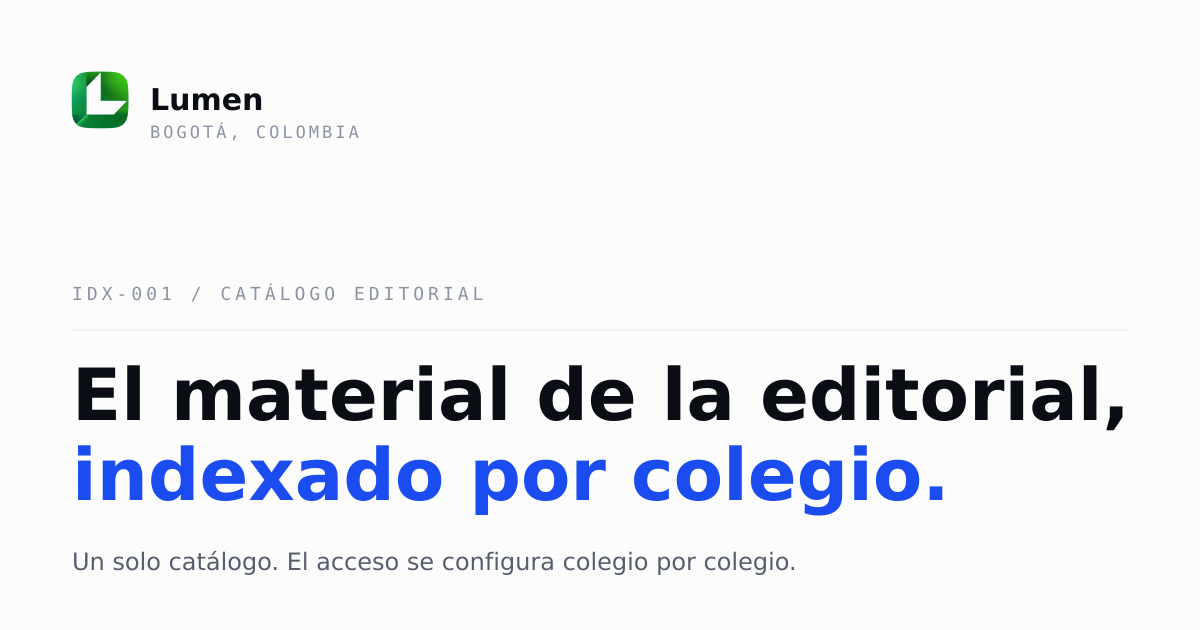
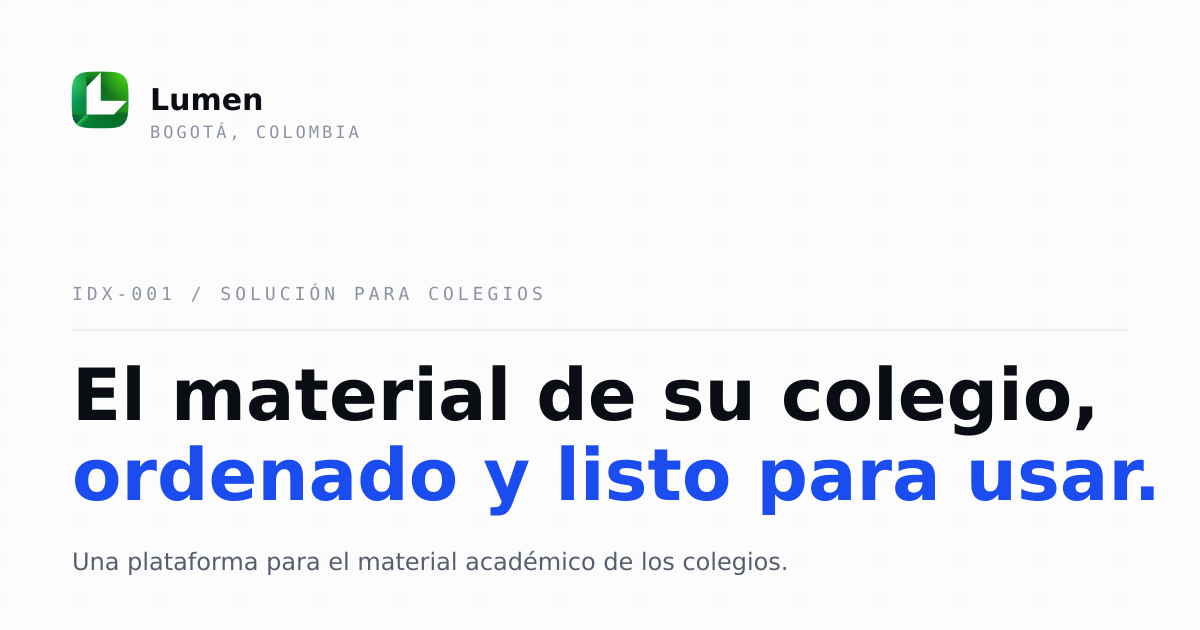
✨ feat(sitio): la landing presenta a Lumen como empresa
🏢 Lumen deja de presentarse como una editorial: el hero, el proceso y las
preguntas cuentan que es una empresa de software que resuelve la gestión
del material académico en los colegios.

🚪 El rol de plataforma sale de la lista de roles, y la cobertura por
tamaño de colegio también. El bloque quedó opcional: la página lo dibuja
solo si el copy lo trae, así que volver a publicarlo no necesita un
redespliegue.

🔁 El copy lo escribe ahora una migración y no la semilla, para que una
base nueva y una que ya existe muestren la misma landing.

diff --git a/frontend/src/routes/index.tsx b/frontend/src/routes/index.tsx
@@ -8,26 +8,28 @@ import spaceGroteskWoff2 from "@fontsource/space-grotesk/files/space-grotesk-lat
 
 const SITE_URL = (import.meta.env.VITE_SITE_URL ?? "https://lumen.co").replace(/\/$/, "");
 
+const TITLE = "Lumen — El material de su colegio, ordenado y listo para usar";
+const DESCRIPTION =
+  "Lumen resuelve la gestión del material académico en los colegios: el colegio entrega lo que ya tiene y Lumen lo deja disponible para el docente y para el estudiante.";
+
 export const Route = createFileRoute("/")({
   head: () => ({
     meta: [
-      { title: "Lumen — El material de la editorial, indexado por colegio" },
+      { title: TITLE },
       {
         name: "description",
-        content:
-          "Lumen mantiene un solo catálogo de material y le asigna a cada colegio las piezas que le corresponden.",
+        content: DESCRIPTION,
       },
       { name: "robots", content: "index, follow" },
       { property: "og:type", content: "website" },
       { property: "og:site_name", content: "Lumen" },
       {
         property: "og:title",
-        content: "Lumen — El material de la editorial, indexado por colegio",
+        content: TITLE,
       },
       {
         property: "og:description",
-        content:
-          "Lumen mantiene un solo catálogo de material y le asigna a cada colegio las piezas que le corresponden.",
+        content: DESCRIPTION,
       },
       { property: "og:url", content: SITE_URL },
       { property: "og:image", content: `${SITE_URL}/og-lumen.png` },
@@ -36,12 +38,11 @@ export const Route = createFileRoute("/")({
       { name: "twitter:card", content: "summary_large_image" },
       {
         name: "twitter:title",
-        content: "Lumen — El material de la editorial, indexado por colegio",
+        content: TITLE,
       },
       {
         name: "twitter:description",
-        content:
-          "Lumen mantiene un solo catálogo de material y le asigna a cada colegio las piezas que le corresponden.",
+        content: DESCRIPTION,
       },
       { name: "twitter:image", content: `${SITE_URL}/og-lumen.png` },
     ],

diff --git a/frontend/src/features/site/components/landing-page.tsx b/frontend/src/features/site/components/landing-page.tsx
@@ -1,8 +1,9 @@
 // =============================================================================
 // The landing of the public site.
 // -----------------------------------------------------------------------------
-// The page is an index, not a collection of cards: eight blocks in a
-// fixed order, all of them filled with the content the API serves.
+// The page is an index, not a collection of cards: a fixed set of
+// blocks, all of them filled with the content the API serves. The
+// blocks that are not published are simply not in the copy.
 //
 // The first element of the page is the skip link: it is the first
 // thing a keyboard reaches.
@@ -53,7 +54,7 @@ export function LandingPage() {
         <CatalogIndex catalog={content.catalog} entries={catalog} total={catalogTotal} />
         <ProcessSection process={content.process} />
         <RolesSection roles={content.roles} />
-        <CoverageSection coverage={content.coverage} />
+        {content.coverage ? <CoverageSection coverage={content.coverage} /> : null}
         <FaqSection faq={content.faq} />
         <CtaSection cta={content.cta} />
       </main>

diff --git a/frontend/src/features/site/components/login-page.tsx b/frontend/src/features/site/components/login-page.tsx
@@ -117,7 +117,7 @@ export function LoginPage({
               Su colegio ya tiene el material cargado.
             </h1>
             <p className="mt-4 max-w-[38ch] text-[15px] leading-relaxed text-ink-2">
-              Todo el contenido editorial habilitado para su institución, en el mismo lugar.
+              Todo el material habilitado para su institución, en el mismo lugar.
             </p>
 
             {/* A miniature of the index. The rows are illustrative. */}
@@ -308,7 +308,7 @@ export function LoginPage({
                 >
                   Solicite su acceso
                 </a>{" "}
-                y el equipo editorial deja el catálogo listo para usted.
+                y el equipo de Lumen deja el catálogo listo para usted.
               </p>
             </SpecPanel>
 

diff --git a/frontend/src/features/site/components/sections.tsx b/frontend/src/features/site/components/sections.tsx
@@ -94,6 +94,12 @@ export function RolesSection({ roles }: { roles: SiteRoles }) {
 // --- The coverage ----------------------------------------------------------
 
 export function CoverageSection({ coverage }: { coverage: SiteCoverage }) {
+  // The block is published only when the copy carries it: a copy
+  // without rows leaves the page without the block.
+  if (coverage.rows.length === 0) {
+    return null;
+  }
+
   return (
     <section id="cobertura" className="border-b border-line scroll-mt-16">
       <div className={`${CONTAINER} pt-16 pb-16 sm:pt-24 sm:pb-24`}>

diff --git a/frontend/src/features/site/types.ts b/frontend/src/features/site/types.ts
@@ -159,7 +159,8 @@ export type SiteCopy = {
   catalog: SiteCatalog;
   process: SiteProcess;
   roles: SiteRoles;
-  coverage: SiteCoverage;
+  /** The block is only drawn when the copy carries it. */
+  coverage?: SiteCoverage | null;
   faq: SiteFaq;
   cta: SiteCta;
   footer: SiteFooter;

diff --git a/backend/app/site/schemas.py b/backend/app/site/schemas.py
@@ -203,14 +203,19 @@ class FooterContent(BaseModel):
 
 
 class SiteCopy(BaseModel):
-    """The copy of the landing, section by section."""
+    """The copy of the landing, section by section.
+
+    The blocks that are not published are simply not in the copy: the
+    coverage by school size is optional, for instance, and the page
+    draws it only when the copy carries it.
+    """
 
     nav: NavContent
     hero: HeroContent
     catalog: CatalogContent
     process: ProcessContent
     roles: RolesContent
-    coverage: CoverageContent
+    coverage: CoverageContent | None = None
     faq: FaqContent
     cta: CtaContent
     footer: FooterContent
